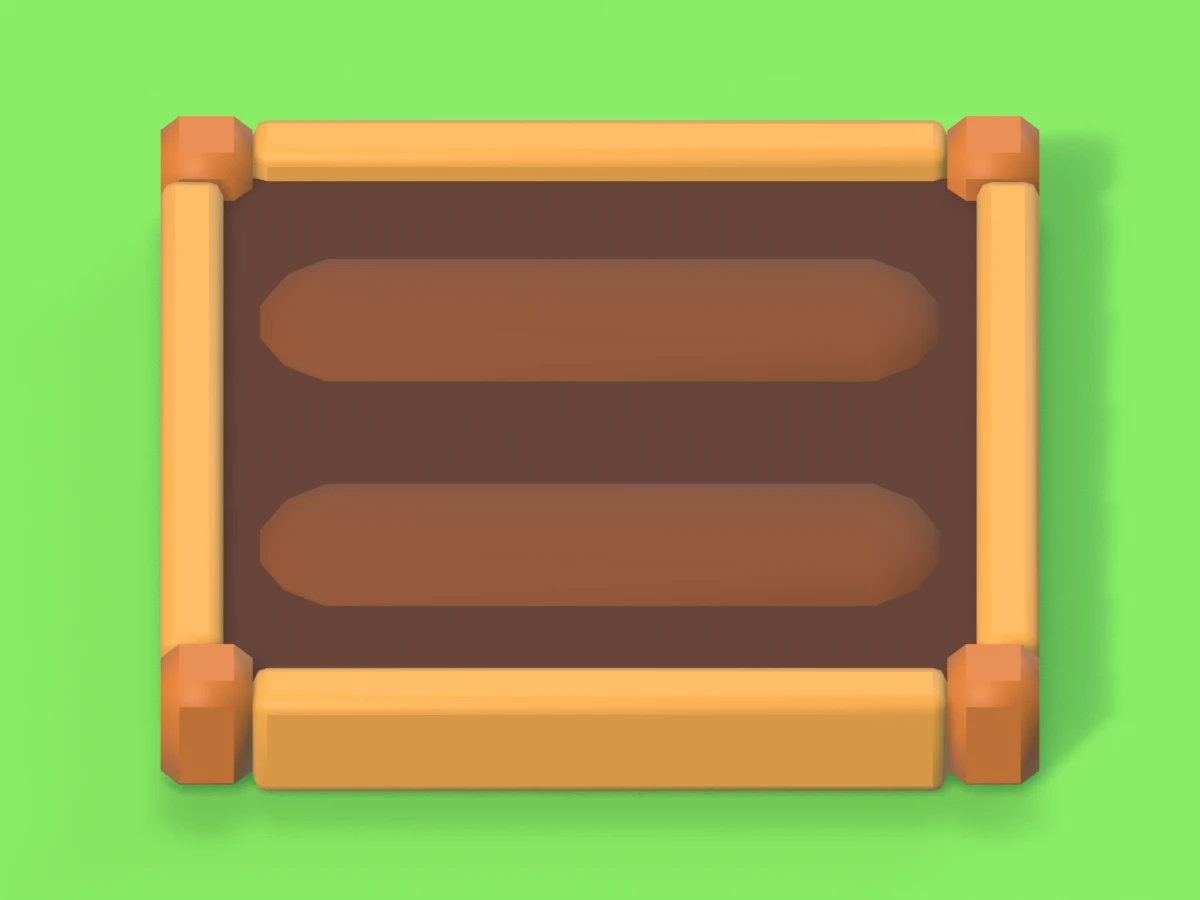
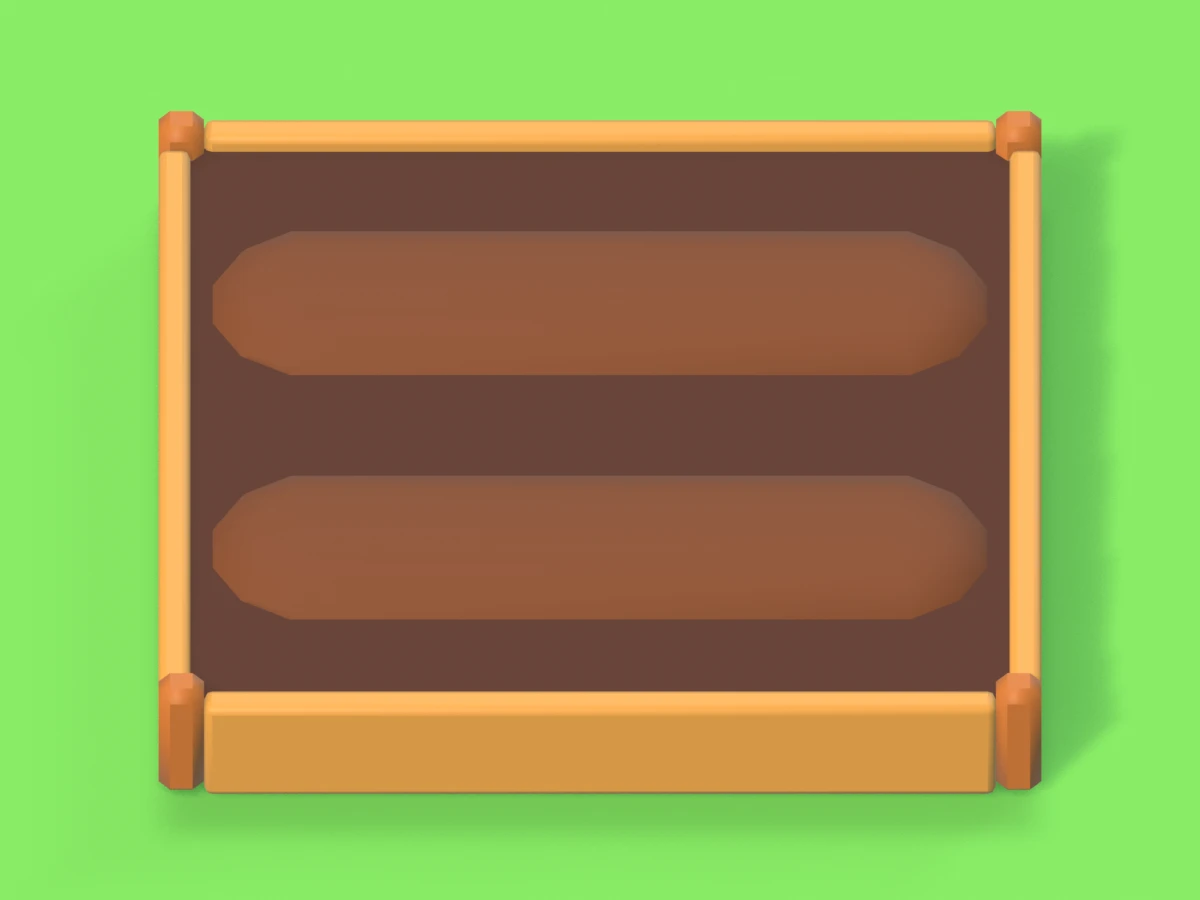
Slim the garden bed frames and pack ~20% more beds into the garden
Thin planks (7 cm) and posts (10 cm) around the same 1.8 m soil square; beds sit on a
1.64 m grid (was 1.8 m), BED_HALF .78, BED_GAP 1.58. Garden layout 3 moves layout-2
starting and game-placed beds to the new grid, keeps crops, timers and hand-placed beds,
and lifts the starting block off the west stepping-stone trail.

Changed region(s): [[0.1233, 0.1244, 0.8942, 0.9022]]

diff --git a/tests/garden-expand.test.ts b/tests/garden-expand.test.ts
@@ -8,10 +8,10 @@ const crop = Object.keys(M.CROPS)[0] as M.CropId, grown = Date.now() - M.CROPS[c
 
 test('a ripe tap gathers every ripe bed in the garden, nearest first, the tapped bed leading', () => {
   const s = M.newGame();
-  // Starting beds sit 1.8 m apart: bed 4 is the centre of the 3x3 garden.
+  // Starting beds sit BED_STEP (1.64 m) apart: bed 4 is the centre of the 3x3 garden.
   for (const i of [0, 1, 4, 5, 8]) Object.assign(s.plots[i], { crop, plantedAt: grown });
   s.plots[3].crop = crop; s.plots[3].plantedAt = Date.now(); // growing: never gathered
-  assert.deepEqual(M.ripeNearby(s, 4), [4, 1, 5, 0, 8], 'centre, then the 1.8 m neighbours, then the 2.55 m corners');
+  assert.deepEqual(M.ripeNearby(s, 4), [4, 1, 5, 0, 8], 'centre, then the 1.64 m neighbours, then the 2.32 m corners');
   // The user's rule: no reach limit, so the far corner comes too (the reference stops at 5 m).
   assert.deepEqual(M.ripeNearby(s, 0), [0, 1, 4, 5, 8]);
   assert.deepEqual(M.ripeNearby(s, 3), [], 'a growing bed gathers nothing');
@@ -46,9 +46,9 @@ test('expand costs 60 + 20 per extra bed, prefers a kit in the bag and stops at 
 test('placement refuses blocked spots and spots outside the fence', () => {
   const s = M.newGame();
   assert.equal(M.bedSpotOk(s, -13.65, 4.1), true, 'open grass west of the garden');
-  assert.equal(M.bedSpotOk(s, -12.75, 1.85), true, 'one grid step west of the garden: smaller beds fit closer');
-  assert.equal(M.bedSpotOk(s, -9.15, 1.85), false, 'on a starting bed');
-  assert.equal(M.bedSpotOk(s, -12.6, 1.85), false, 'overlapping a starting bed');
+  assert.equal(M.bedSpotOk(s, -12.43, 2.99), true, 'one grid step west of the garden: smaller beds fit closer');
+  assert.equal(M.bedSpotOk(s, -9.15, 2.99), false, 'on a starting bed');
+  assert.equal(M.bedSpotOk(s, -12.3, 2.99), false, 'overlapping a starting bed');
   assert.equal(M.bedSpotOk(s, M.PEN.x, M.PEN.z), false, 'the animal pen');
   assert.equal(M.bedSpotOk(s, M.PEN.x, M.PEN.z + M.PEN.hd + .9), false, 'the path around the pen');
   assert.equal(M.bedSpotOk(s, 0, -8), false, 'the cottage');
@@ -86,7 +86,7 @@ test('old saves keep their beds: missing positions fall back to the starting gri
   const old = JSON.parse(JSON.stringify(s)); for (const p of old.plots.slice(0, 9)) { delete p.x; delete p.z; }
   const r = M.parseSave(JSON.stringify(old))!;
   assert.equal(r.plots.length, 11); assert.deepEqual(r.plots.slice(0, 9).map(p => [p.x, p.z]), M.newGame().plots.map(p => [p.x, p.z]));
-  assert.deepEqual(M.bedPosition(old as M.SaveState, 4), { x: -9.15, z: 1.85 }, 'the garden centre stays where it was');
+  assert.deepEqual(M.bedPosition(old as M.SaveState, 4), M.GARDEN_CENTRE, 'bed 4 is the garden centre');
   assert.equal(M.isExtraBed(r, 10), true); assert.equal(M.gardenExpansionCost(r), 100);
 });
 
@@ -139,8 +139,8 @@ test('old saves move to the smaller beds: starting beds onto the new grid, game-
   assert.ok(M.clearOfPen(r.plots[13].x!, r.plots[13].z!, M.BED_HALF), 'the bed on the new pen moved');
   const span = (p: M.Plot) => M.BED_HALF * (Math.abs(Math.cos(p.rotation ?? 0)) + Math.abs(Math.sin(p.rotation ?? 0)));
   r.plots.forEach((a, i) => { if (i >= 9) assert.ok(M.bedClear(a.x!, a.z!, a.rotation ?? 0), `bed ${i} clear`); r.plots.forEach((b, j) => { if (j > i) assert.ok(Math.max(Math.abs(a.x! - b.x!), Math.abs(a.z! - b.z!)) >= Math.max(M.BED_GAP, span(a) + span(b)), `beds ${i} and ${j} apart`); }); });
-  // Game-placed beds now sit on the 1.8 m grid, nearer the garden than before.
-  for (const p of r.plots.slice(9, 12)) assert.ok(Math.hypot(p.x! + 9.15, p.z! - 1.85) <= 5.1, `${p.x},${p.z}`);
+  // Game-placed beds now sit on the garden grid, nearer the garden than before.
+  for (const p of r.plots.slice(9, 12)) assert.ok(Math.hypot(p.x! - M.GARDEN_CENTRE.x, p.z! - M.GARDEN_CENTRE.z) <= 5.1, `${p.x},${p.z}`);
   // A save on the new layout loads as it is.
   assert.deepEqual(reload(r).plots, r.plots);
 });
@@ -150,5 +150,48 @@ test('"Place new beds myself" is off by default and survives a reload', () => {
   s.settings.placeBeds = true; assert.equal(reload(s).settings.placeBeds, true);
   const odd = JSON.parse(JSON.stringify(s)); odd.settings.placeBeds = 'yes'; assert.equal(M.parseSave(JSON.stringify(odd))!.settings.placeBeds, undefined);
   // Automatic placement: no spot given, the bed goes on the free grid spot nearest the garden.
-  s.energy = 60; assert.ok(M.expandGarden(s)); assert.deepEqual([s.plots[9].x, s.plots[9].z], [-12.75, 1.85]);
+  s.energy = 60; assert.ok(M.expandGarden(s)); assert.deepEqual([s.plots[9].x, s.plots[9].z], [-12.43, 2.99]);
+});
+
+test('layout 3: slim frames around the same soil pack ~20 % more beds per area, crops the same size', () => {
+  // The model frame is 1.94 m outside with 7 cm planks: soil half side 0.9 m as before (2.12 m frame, 15 cm planks).
+  assert.ok(Math.abs(M.BED_HALF / M.BED_SCALE - .07 - .9) < .01, 'same soil square');
+  assert.ok(2 * M.BED_HALF < M.BED_STEP && M.BED_STEP - 2 * M.BED_HALF <= .1, 'a narrow path between frames, as before');
+  const gain = (1.8 / M.BED_STEP) ** 2; assert.ok(gain >= 1.19 && gain <= 1.25, `beds per area x${gain.toFixed(2)}`);
+  assert.ok(M.BED_GAP >= 2 * M.BED_HALF && M.BED_GAP <= M.BED_STEP, 'grid neighbours count as apart, frames never touch');
+  assert.equal(M.CROP_SCALE, .88, 'crops keep their on-screen size');
+  // Starting beds: one grid step apart, off the trails and the pen.
+  for (let i = 0; i < 9; i++) {
+    const b = M.defaultBed(i); assert.ok(M.bedClear(b.x, b.z), `bed ${i} clear`); assert.ok(M.clearOfPen(b.x, b.z, M.BED_HALF, 1.4), `bed ${i} off the pen`);
+    if (i % 3) assert.ok(Math.abs(b.x - M.defaultBed(i - 1).x - M.BED_STEP) < 1e-9);
+  }
+});
+
+test('layout 2 saves move to the slim-frame grid, keeping crops, timers and hand-placed beds', () => {
+  const now = Date.now(), old = JSON.parse(JSON.stringify(M.newGame()));
+  old.gardenLayout = 2;
+  old.plots = Array.from({ length: 9 }, (_, i) => ({ crop: i === 4 ? crop : null, plantedAt: i === 4 ? now : 0, ...M.layout2Bed(i) }));
+  // Two beds the game placed on the 1.8 m grid, one turned bed placed by hand, one hand-placed square off the grid.
+  old.plots.push({ crop, plantedAt: 7, x: -12.75, z: 1.85 }, { crop: null, plantedAt: 0, x: -5.55, z: 5.45 },
+    { crop: null, plantedAt: 0, x: -4.1, z: 5.6, rotation: Math.PI / 4 }, { crop, plantedAt: 9, x: -13.2, z: 2.5 });
+  const r = M.parseSave(JSON.stringify(old))!;
+  assert.equal(r.gardenLayout, 3); assert.equal(r.plots.length, 13);
+  assert.deepEqual(r.plots.slice(0, 9).map(p => ({ x: p.x, z: p.z })), Array.from({ length: 9 }, (_, i) => M.defaultBed(i)));
+  assert.equal(r.plots[4].crop, crop); assert.equal(r.plots[4].plantedAt, now);
+  assert.equal(r.plots[9].crop, crop); assert.equal(r.plots[9].plantedAt, 7, 'crops and timers stay with their beds');
+  assert.deepEqual([r.plots[11].x, r.plots[11].z, r.plots[11].rotation], [-4.1, 5.6, Math.PI / 4], 'a hand-placed bed keeps its spot');
+  assert.deepEqual([r.plots[12].x, r.plots[12].z, r.plots[12].plantedAt], [-13.2, 2.5, 9]);
+  // Game-placed beds were packed again on the new grid around the garden.
+  for (const p of r.plots.slice(9, 11)) assert.ok(Math.abs((p.x! - M.GARDEN_CENTRE.x) / M.BED_STEP % 1) < .01 || Math.abs(Math.abs((p.x! - M.GARDEN_CENTRE.x) / M.BED_STEP % 1) - 1) < .01, `${p.x},${p.z}`);
+  const span = (p: M.Plot) => M.BED_HALF * (Math.abs(Math.cos(p.rotation ?? 0)) + Math.abs(Math.sin(p.rotation ?? 0)));
+  r.plots.forEach((a, i) => { assert.ok(M.bedClear(a.x!, a.z!, a.rotation ?? 0), `bed ${i} clear`); r.plots.forEach((b, j) => { if (j > i) assert.ok(Math.max(Math.abs(a.x! - b.x!), Math.abs(a.z! - b.z!)) >= Math.max(M.BED_GAP, span(a) + span(b)), `beds ${i} and ${j} apart`); }); });
+  assert.deepEqual(reload(r).plots, r.plots, 'a layout 3 save loads as it is');
+});
+
+test('a full garden: every extra bed fits on the dense grid, near the starting garden', () => {
+  const s = M.newGame(); s.energy = 1e7; while (M.expandGarden(s));
+  assert.equal(s.plots.length, M.STARTING_PLOTS + M.MAX_EXTRA_PLOTS);
+  const far = Math.max(...s.plots.map(p => Math.hypot(p.x! - M.GARDEN_CENTRE.x, p.z! - M.GARDEN_CENTRE.z)));
+  assert.ok(far < 9, `the farthest bed is ${far.toFixed(2)} m from the garden centre`);
+  s.plots.forEach((a, i) => { assert.ok(M.bedClear(a.x!, a.z!), `bed ${i}`); s.plots.forEach((b, j) => { if (j > i) assert.ok(Math.max(Math.abs(a.x! - b.x!), Math.abs(a.z! - b.z!)) >= M.BED_GAP); }); });
 });

diff --git a/src/model.ts b/src/model.ts
@@ -171,21 +171,28 @@ export const HOME_CLEARANCE: readonly { x: number; z: number; r: number }[] = [
     ...Array.from({ length: 16 }, (_, i) => { const a = (i + .5) / 16 * Math.PI * 2; return { x: Math.cos(a) * 16.4, z: Math.sin(a) * 16.4, r: .8 }; }),
 ];
 /**
- * Beds are 80 % of the reference's 2.12 m frame (the user wanted more room in the garden): BED_SCALE shrinks the bed
- * model, its pick shape and the crops; frames are 1.7 m (half side BED_HALF) on a 1.8 m grid (BED_STEP), and two
- * square beds stand at least BED_GAP apart along an axis. TRAIL_HALF is the stepping-stone trails' half-width and
+ * Beds are drawn at 80 % (BED_SCALE shrinks the bed model, its pick shape and the crops). Layout 3 thinned the frame
+ * (7 cm planks, 10 cm posts instead of 15/22 cm) around the same 1.8 m soil square, so a frame is 1.94 m in model units,
+ * 1.55 m in the world (half side BED_HALF .78), on a 1.64 m grid (BED_STEP; was 1.8 m around 1.7 m frames): the same
+ * ~8-10 cm path between frames, (1.8 / 1.64)^2 = 1.20 times the beds per area. Two square beds stand at least BED_GAP
+ * (2 x BED_HALF + 2 cm) apart along an axis. TRAIL_HALF is the stepping-stone trails' half-width and
  * BED_REACH the farthest a bed corner may reach from the village centre.
  */
-export const BED_SCALE = .8, BED_HALF = .85, BED_STEP = 1.8, BED_GAP = 1.72, TRAIL_HALF = .55, BED_REACH = 17.4;
+export const BED_SCALE = .8, BED_HALF = .78, BED_STEP = 1.64, BED_GAP = 1.58, TRAIL_HALF = .55, BED_REACH = 17.4;
 /** Crops shrink less than their beds so they stay readable: a ripe crop is 35 px tall on a phone instead of 40. */
 export const CROP_SCALE = .88;
-/** Where starting bed `i` sits: a 3 x 3 block on the 1.8 m grid around the garden centre (-9.15, 1.85). */
-export function defaultBed(i: number) { return { x: +(-10.95 + (i % 3) * BED_STEP).toFixed(2), z: +(.05 + Math.floor(i / 3) * BED_STEP).toFixed(2) }; }
+/**
+ * Where starting bed `i` sits: a 3 x 3 block on the garden grid around GARDEN_CENTRE. Its south row stands just off
+ * the west stepping-stone trail (z >= BED_HALF + TRAIL_HALF); the thick layout-2 block reached over it.
+ */
+export function defaultBed(i: number) { return { x: +(GARDEN_CENTRE.x + (i % 3 - 1) * BED_STEP).toFixed(2), z: +(GARDEN_CENTRE.z + (Math.floor(i / 3) - 1) * BED_STEP).toFixed(2) }; }
+/** The starting grid of layout 2 (thick frames): 1.8 m apart from (-10.95, 0.05). */
+export function layout2Bed(i: number) { return { x: +(-10.95 + (i % 3) * 1.8).toFixed(2), z: +(.05 + Math.floor(i / 3) * 1.8).toFixed(2) }; }
 /** The starting grid of saves made before the beds shrank: 2.25 m apart from (-11.4, -0.4). */
 export function legacyBed(i: number) { return { x: -11.4 + (i % 3) * 2.25, z: -.4 + Math.floor(i / 3) * 2.25 }; }
 /** Saves on the current bed layout carry this; older ones are migrated by shrinkGarden. */
-export const GARDEN_LAYOUT = 2;
-/** Reach of a bed from its centre along the axes: 0.85 m square on, 1.2 m when turned 45°. */
+export const GARDEN_LAYOUT = 3;
+/** Reach of a bed from its centre along the axes: 0.78 m square on, 1.1 m when turned 45°. */
 const bedSpan = (rotation = 0) => BED_HALF * (Math.abs(Math.cos(rotation)) + Math.abs(Math.sin(rotation)));
 /**
  * Whether a bed centred here keeps off the home obstacles, the animal pen (with a path around it), the four trails
@@ -201,8 +208,8 @@ export function bedClear(x: number, z: number, rotation = 0) {
 function bedsApart(ax: number, az: number, ar: number, bx: number, bz: number, br: number) { return Math.max(Math.abs(ax - bx), Math.abs(az - bz)) >= Math.max(BED_GAP, bedSpan(ar) + bedSpan(br) + .02); }
 type BedSpot = { x: number; z: number; rotation?: number };
 const bedSpots = (s: SaveState): BedSpot[] => s.plots.map((p, i) => ({ ...bedPosition(s, i), rotation: p.rotation ?? 0 }));
-/** Centre of the starting garden; new beds grow outward from it on the 1.8 m garden grid. */
-const GARDEN_CENTRE = { x: -9.15, z: 1.85 };
+/** Centre of the starting garden; new beds grow outward from it on the BED_STEP garden grid. */
+export const GARDEN_CENTRE = { x: -9.15, z: 2.99 };
 const BED_GRID = Array.from({ length: 19 * 19 }, (_, i) => ({ x: +(GARDEN_CENTRE.x + (i % 19 - 9) * BED_STEP).toFixed(2), z: +(GARDEN_CENTRE.z + (Math.floor(i / 19) - 9) * BED_STEP).toFixed(2) }))
     .sort((a, b) => Math.hypot(a.x - GARDEN_CENTRE.x, a.z - GARDEN_CENTRE.z) - Math.hypot(b.x - GARDEN_CENTRE.x, b.z - GARDEN_CENTRE.z) || a.z - b.z || a.x - b.x);
 /** The free grid spot nearest the garden for a new square bed, given the beds already standing, or null. */
@@ -221,16 +228,17 @@ export function settleBeds(s: SaveState) {
     return moved;
 }
 /**
- * Saves from before the beds shrank (no gardenLayout): starting beds still on the old 2.25 m grid move to the new
- * 1.8 m one, and extra beds the game placed itself (unturned, on the old grid) are packed in again nearest the garden,
+ * Saves on an older bed layout (none: 2.25 m grid; 2: 1.8 m grid with thick frames): starting beds still on their
+ * old spots move to the current grid, and extra beds the game placed itself (unturned, on the old grid) are packed in again nearest the garden,
  * around the beds the player placed by hand, which keep their spots. settleBeds then clears any overlap that is left
  * (a hand-placed bed on the new pen, say). Crops and timers stay with their beds.
  */
-export function shrinkGarden(s: SaveState) {
-    const onOldGrid = (x: number, z: number) => [(x + 11.4) / 2.25, (z + .4) / 2.25].every(k => Math.abs(k - Math.round(k)) < .01);
+export function shrinkGarden(s: SaveState, from = 1) {
+    const [ox, oz, step] = from === 2 ? [-10.95, .05, 1.8] : [-11.4, -.4, 2.25], oldBed = from === 2 ? layout2Bed : legacyBed;
+    const onOldGrid = (x: number, z: number) => [(x - ox) / step, (z - oz) / step].every(k => Math.abs(k - Math.round(k)) < .01);
     const repack = new Set<number>();
     s.plots.forEach((p, i) => {
-        const { x, z } = bedPosition(s, i), old = legacyBed(i);
+        const { x, z } = bedPosition(s, i), old = oldBed(i);
         if (i < STARTING_PLOTS) { if (Math.abs(x - old.x) < .01 && Math.abs(z - old.z) < .01) Object.assign(p, defaultBed(i)); }
         else if (!p.rotation && onOldGrid(x, z)) repack.add(i);
     });
@@ -476,7 +484,7 @@ export function parseSave(raw: string | null): SaveState | null {
         if (!record(v) || v.version !== 1 || typeof v.name !== 'string' || typeof v.level !== 'number' || !Number.isFinite(v.level) || v.level < 1 || !planetId(v.planet) || !Array.isArray(v.plots))
             return null;
         const s = newGame(v.name, typeof v.color === 'string' && /^#[0-9a-f]{6}$/i.test(v.color) ? v.color : COLORS[0]);
-        const legacy = v.contentVersion !== 2, layoutBed = v.gardenLayout === GARDEN_LAYOUT ? defaultBed : legacyBed;
+        const legacy = v.contentVersion !== 2, layoutBed = v.gardenLayout === GARDEN_LAYOUT ? defaultBed : v.gardenLayout === 2 ? layout2Bed : legacyBed;
         const inventory = (data: unknown): Inventory => { const result: Inventory = {}; if (record(data))
             for (const [raw, n] of Object.entries(data)) {
                 const id = canonicalItem(raw);
@@ -561,7 +569,7 @@ export function parseSave(raw: string | null): SaveState | null {
                 if (ITEMS[id]?.type === 'decor' && Number.isFinite(d.x) && Number.isFinite(d.z) && Math.hypot(d.x, d.z) <= 16.6)
                     s.decorations.push({ uid: typeof d.uid === 'string' ? d.uid.slice(0, 80) : `decor-${s.nextDecorationId++}`, id, x: d.x, z: d.z, rotation: Number.isFinite(d.rotation) ? d.rotation : 0 });
             }
-        if (v.gardenLayout === GARDEN_LAYOUT) settleBeds(s); else shrinkGarden(s);
+        if (v.gardenLayout === GARDEN_LAYOUT) settleBeds(s); else shrinkGarden(s, v.gardenLayout === 2 ? 2 : 1);
         s.farm = parseFarm(v.farm);
         s.nextDecorationId = Math.max(integer(v.nextDecorationId, 1), s.decorations.length + 1, ...s.decorations.map(d => Number(d.uid.replace('decor-', '')) + 1).filter(Number.isFinite));
         if (record(v.collection))

diff --git a/src/world.ts b/src/world.ts
@@ -55,7 +55,7 @@ const matCache = new Map<string, T.MeshToonMaterial>();
 const ENTITY_ASSETS: Partial<Record<string, RefinedAsset>> = { home: 'cottage', sell: 'market', shop: 'outfitters', upgrade: 'crystal', chest: 'chest', craft: 'workshop', cook: 'kitchen' };
 // A bed's entity holds only this invisible shape, the bed slab plus a column where its crop card stands, so tap raycasts
 // find the bed and its crop but pass over it to the bed behind. GardenBeds draws the beds.
-const BED_PICK=mergeGeometries([new T.BoxGeometry(2.1*M.BED_SCALE,.32,2.1*M.BED_SCALE).translate(0,.16,0),new T.BoxGeometry(.8*M.CROP_SCALE,1.05*M.CROP_SCALE,.8*M.CROP_SCALE).translate(0,.75*M.CROP_SCALE,0)]),BED_PICK_MATERIAL=new T.MeshBasicMaterial({visible:false});BED_PICK.userData.sharedKit=BED_PICK_MATERIAL.userData.sharedKit=true;
+const BED_PICK=mergeGeometries([new T.BoxGeometry(1.94*M.BED_SCALE,.32,1.94*M.BED_SCALE).translate(0,.16,0),new T.BoxGeometry(.8*M.CROP_SCALE,1.05*M.CROP_SCALE,.8*M.CROP_SCALE).translate(0,.75*M.CROP_SCALE,0)]),BED_PICK_MATERIAL=new T.MeshBasicMaterial({visible:false});BED_PICK.userData.sharedKit=BED_PICK_MATERIAL.userData.sharedKit=true;
 // Planet palettes for the shared scenery kit (material name → colour). Home uses the kit's own colours.
 const SCENERY_KITS = { scenery: sceneryKit, wilds: wildsKit, bright: brightKit, harsh: harshKit };
 const KIT_TINTS: Partial<Record<PlanetId, Record<string, string>>> = {
@@ -381,7 +381,8 @@ export class World {
   }
   /** The simple bed until garden-bed.glb arrives: soil, a wooden frame and three furrows. */
   private bedBoxes(){
-    const p=group(box('#9b7355',1.96,.16,1.95,0,.12),box('#be9970',2.12,.17,.12,0,.2,-1),box('#be9970',2.12,.17,.12,0,.2,1),box('#be9970',.12,.17,2.12,-1,.2),box('#be9970',.12,.17,2.12,1,.2));
+    // The slim layout-3 frame (build_garden_bed): 7 cm planks around the 1.8 m soil square, 1.94 m outside.
+    const p=group(box('#9b7355',1.82,.16,1.82,0,.12),box('#be9970',1.94,.14,.07,0,.19,-.935),box('#be9970',1.94,.14,.07,0,.19,.935),box('#be9970',.07,.14,1.94,-.935,.19),box('#be9970',.07,.14,1.94,.935,.19));
     for(let j=0;j<3;j++) p.add(box('#795a47',1.8,.045,.08,0,.22,-.6+j*.6));
     return p;
   }

diff --git a/tests/world.test.ts b/tests/world.test.ts
@@ -93,8 +93,8 @@ test('a full 33-bed garden keeps every bed off buildings, props, trees, the pond
     for(const e of w.entities)if(e.kind!=='plot'&&e.kind!=='enemy')assert.ok(square(b,e.x,e.z)>=Math.min(e.radius,3.6)-1e-9,`bed ${b.index} overlaps ${e.kind}`);
     for(const o of beds)if(o!==b)assert.ok(Math.max(Math.abs(o.x-b.x),Math.abs(o.z-b.z))>=M.BED_GAP);
     assert.ok(M.clearOfPen(b.x,b.z,M.BED_HALF),'beds keep off the animal pen and the path around it');
-    // The starting garden sits where the west trail would run (its stones skip it); new beds keep off every trail.
-    if(b.index!>=9)assert.ok(Math.abs(b.x)>=1.4&&Math.abs(b.z)>=1.4,'beds stay off the stepping-stone trails');
+    // Every bed, the starting garden too since layout 3, keeps off the stepping-stone trails.
+    assert.ok(Math.abs(b.x)>=M.BED_HALF+M.TRAIL_HALF&&Math.abs(b.z)>=M.BED_HALF+M.TRAIL_HALF,`bed ${b.index} stays off the stepping-stone trails`);
   }
   assert.equal(w.bedDraws>0,true);
 });
@@ -141,7 +141,7 @@ test('remote avatars are separate from obstacles and refresh equipment without d
 test('home includes nine plots and exact regional creature populations within full bounds',()=>{
   const w=world();w.build('home');assert.equal(w.plotMeshes.length,9);assert.equal(w.enemies.length,150);assert.equal(w.enemies.filter(e=>e.boss).length,4);
   assert.ok(w.enemies.some(e=>Math.hypot(e.x,e.z)>100));assert.equal(w.blocked(149,0),true);
-  assert.deepEqual(w.entities.filter(e=>e.kind==='plot').slice(0,3).map(e=>[e.x,e.z]),[[-10.95,.05],[-9.15,.05],[-7.35,.05]]);
+  assert.deepEqual(w.entities.filter(e=>e.kind==='plot').slice(0,3).map(e=>[e.x,e.z]),[[-10.79,1.35],[-9.15,1.35],[-7.51,1.35]]);
 });
 
 test('follow-up damage cannot shorten an active crowd-control stun',()=>{

diff --git a/src/main.ts b/src/main.ts
@@ -253,7 +253,7 @@ function updateLabels() {
     if(e.kind==='plot'){
       // Compact crop labels (reference 29/09, RG-05): a ready badge or a 22x5 growth bar on the bed's front edge, nothing on
       // empty beds (the context button says "Plant a seed"); the seconds left are only in the bed panel.
-      const plot=world.state.plots[e.index!];if(!plot?.crop)continue;const progress=M.cropProgress(plot);y=.12;back=-.95*M.BED_SCALE;reach=22;text='';
+      const plot=world.state.plots[e.index!];if(!plot?.crop)continue;const progress=M.cropProgress(plot);y=.12;back=-.88*M.BED_SCALE;reach=22;text='';
       if(progress>=1){icon='👆';className+=' plot-label ready';rank=1;aria=`${M.CROPS[plot.crop].name} ready to harvest in garden bed ${e.index!+1}`;}
       else{icon=`<b style="width:${Math.round(progress*100)}%"></b>`;className+=' plot-label growing';rank=3;aria=`${M.CROPS[plot.crop].name} growing in garden bed ${e.index!+1}, ${Math.ceil((1-progress)*M.CROPS[plot.crop].duration/1000)} seconds left`;}
     }else if(e.kind==='fish'&&e.pond){

diff --git a/art/blender/kit/build_props.py b/art/blender/kit/build_props.py
@@ -585,21 +585,24 @@ def build_equipment_stall():
 
 
 def build_garden_bed():
-    POST = 0.22
-    half = 1.05
+    # Garden layout 3: a slim frame (7 cm planks, 10 cm posts, lower) around the same 1.8 m soil square, so the
+    # game packs ~20 % more beds into the garden (model.ts BED_STEP). Outer side 1.94 m (was 2.12 m).
+    POST = 0.10
+    T = 0.07
+    half = 0.9 + T
     c = half - POST / 2
     for i, (sx, sy) in enumerate(((-1, -1), (1, -1), (1, 1), (-1, 1))):
-        box(f'Post {i}', (POST, POST, 0.335), (sx * c, sy * c, 0.1675), M('Wood'), bev=0.045, seg=1)
+        box(f'Post {i}', (POST, POST, 0.3), (sx * c, sy * c, 0.15), M('Wood'), bev=0.025, seg=1)
     span = 2 * c - POST
-    T = 0.15
     for i, (x, y, sx, sy) in enumerate(((0, -(half - T / 2), span, T), (0, half - T / 2, span, T),
                                         (-(half - T / 2), 0, T, span), (half - T / 2, 0, T, span))):
-        box(f'Plank {i}', (sx, sy, 0.3), (x, y, 0.15), M('Wood light'), bev=0.035, seg=2)
+        box(f'Plank {i}', (sx, sy, 0.26), (x, y, 0.13), M('Wood light'), bev=0.018, seg=2)
     inner = half - T
     box('Soil', (2 * inner + 0.02, 2 * inner + 0.02, 0.2), (0, 0, 0.12), M('Soil'), bev=0.0)
-    # Two rounded soil ridges along X at y = +-0.4 (crops stand at (+-0.4, +-0.4), soil top z 0.22).
+    # Two rounded soil ridges along X at y = +-0.4 (crops stand at (+-0.4, +-0.4), soil top z 0.22); they now run
+    # nearly to the slim planks.
     for y in (-0.4, 0.4):
-        mound(f'Ridge {y}', 1.66, 0.46, 0.075, (0, y, 0.205), M('Soil ridge'))
+        mound(f'Ridge {y}', 1.74, 0.5, 0.075, (0, y, 0.205), M('Soil ridge'))
 
 
 def crystal(name, base, height, radius, tilt=(0, 0), material='Crystal', tip='Crystal light', spin=0.0):
@@ -868,7 +871,7 @@ BUILDERS = {
     'market-stall': dict(file='market-stall.glb', build=build_market_stall, tris=5000, h=2.9, box=(3.2, 2.0)),
     'equipment-stall': dict(file='equipment-stall.glb', build=build_equipment_stall, tris=5000, h=2.9,
                             box=(3.2, 2.0)),
-    'garden-bed': dict(file='garden-bed.glb', build=build_garden_bed, tris=900, h=0.34, box=(2.12, 2.12)),
+    'garden-bed': dict(file='garden-bed.glb', build=build_garden_bed, tris=900, h=0.31, box=(1.94, 1.94)),
     'wishing-crystal': dict(file='wishing-crystal.glb', build=build_wishing_crystal, tris=2500, h=3.2, radius=1.35),
     'storage-chest': dict(file='storage-chest.glb', build=build_storage_chest, tris=1200, h=1.1, box=(1.3, 0.85)),
     'workshop': dict(file='workshop.glb', build=build_workshop, tris=4000, h=2.6, box=(2.4, 1.8)),
@@ -886,7 +889,7 @@ NOTES = {
                     'face -Y.',
     'equipment-stall': 'Counter (hat, helmet, clothes) under the teal canopy on the left; sword-and-shield '
                        'board and sword barrel on the right; all face -Y.',
-    'garden-bed': 'Soil top z 0.22, frame planks top z 0.30, corner posts z 0.335. Ridges run along X at '
+    'garden-bed': 'Slim frame, outer 1.94 m. Soil top z 0.22, frame planks top z 0.26, corner posts z 0.30. Ridges run along X at '
                   'y = +-0.4 and rise to z 0.28, so crops at (+-0.4, +-0.4) sit slightly into them.',
     'wishing-crystal': 'Crystal materials are emissive (Crystal, Crystal light, Crystal violet, Crystal pink); '
                        'water surface at z 0.47.',
